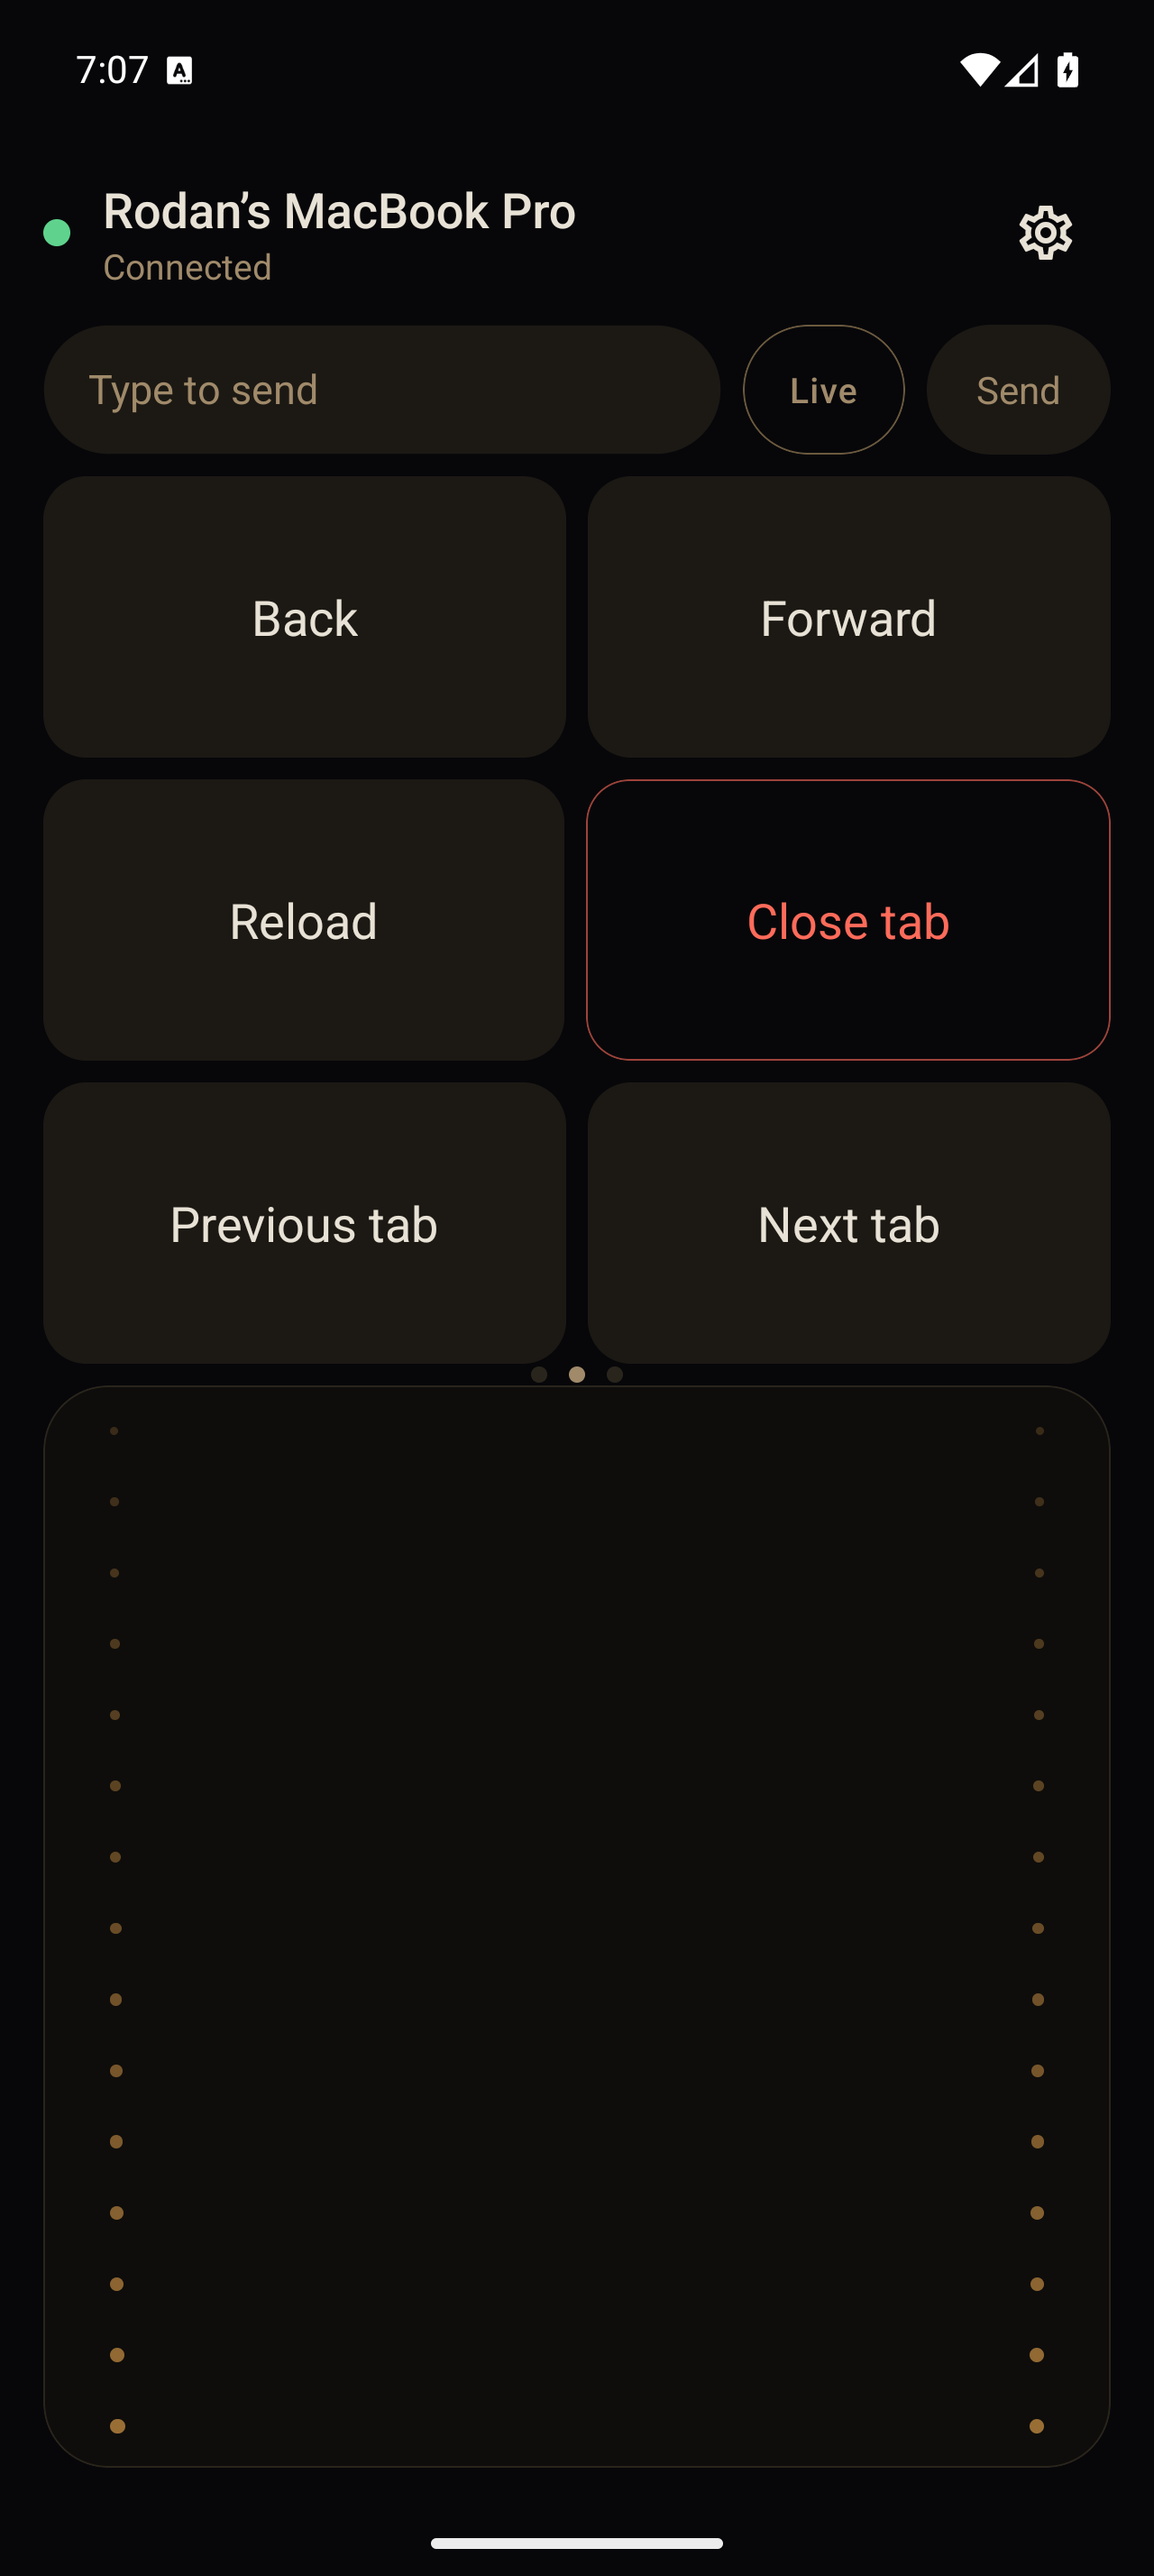
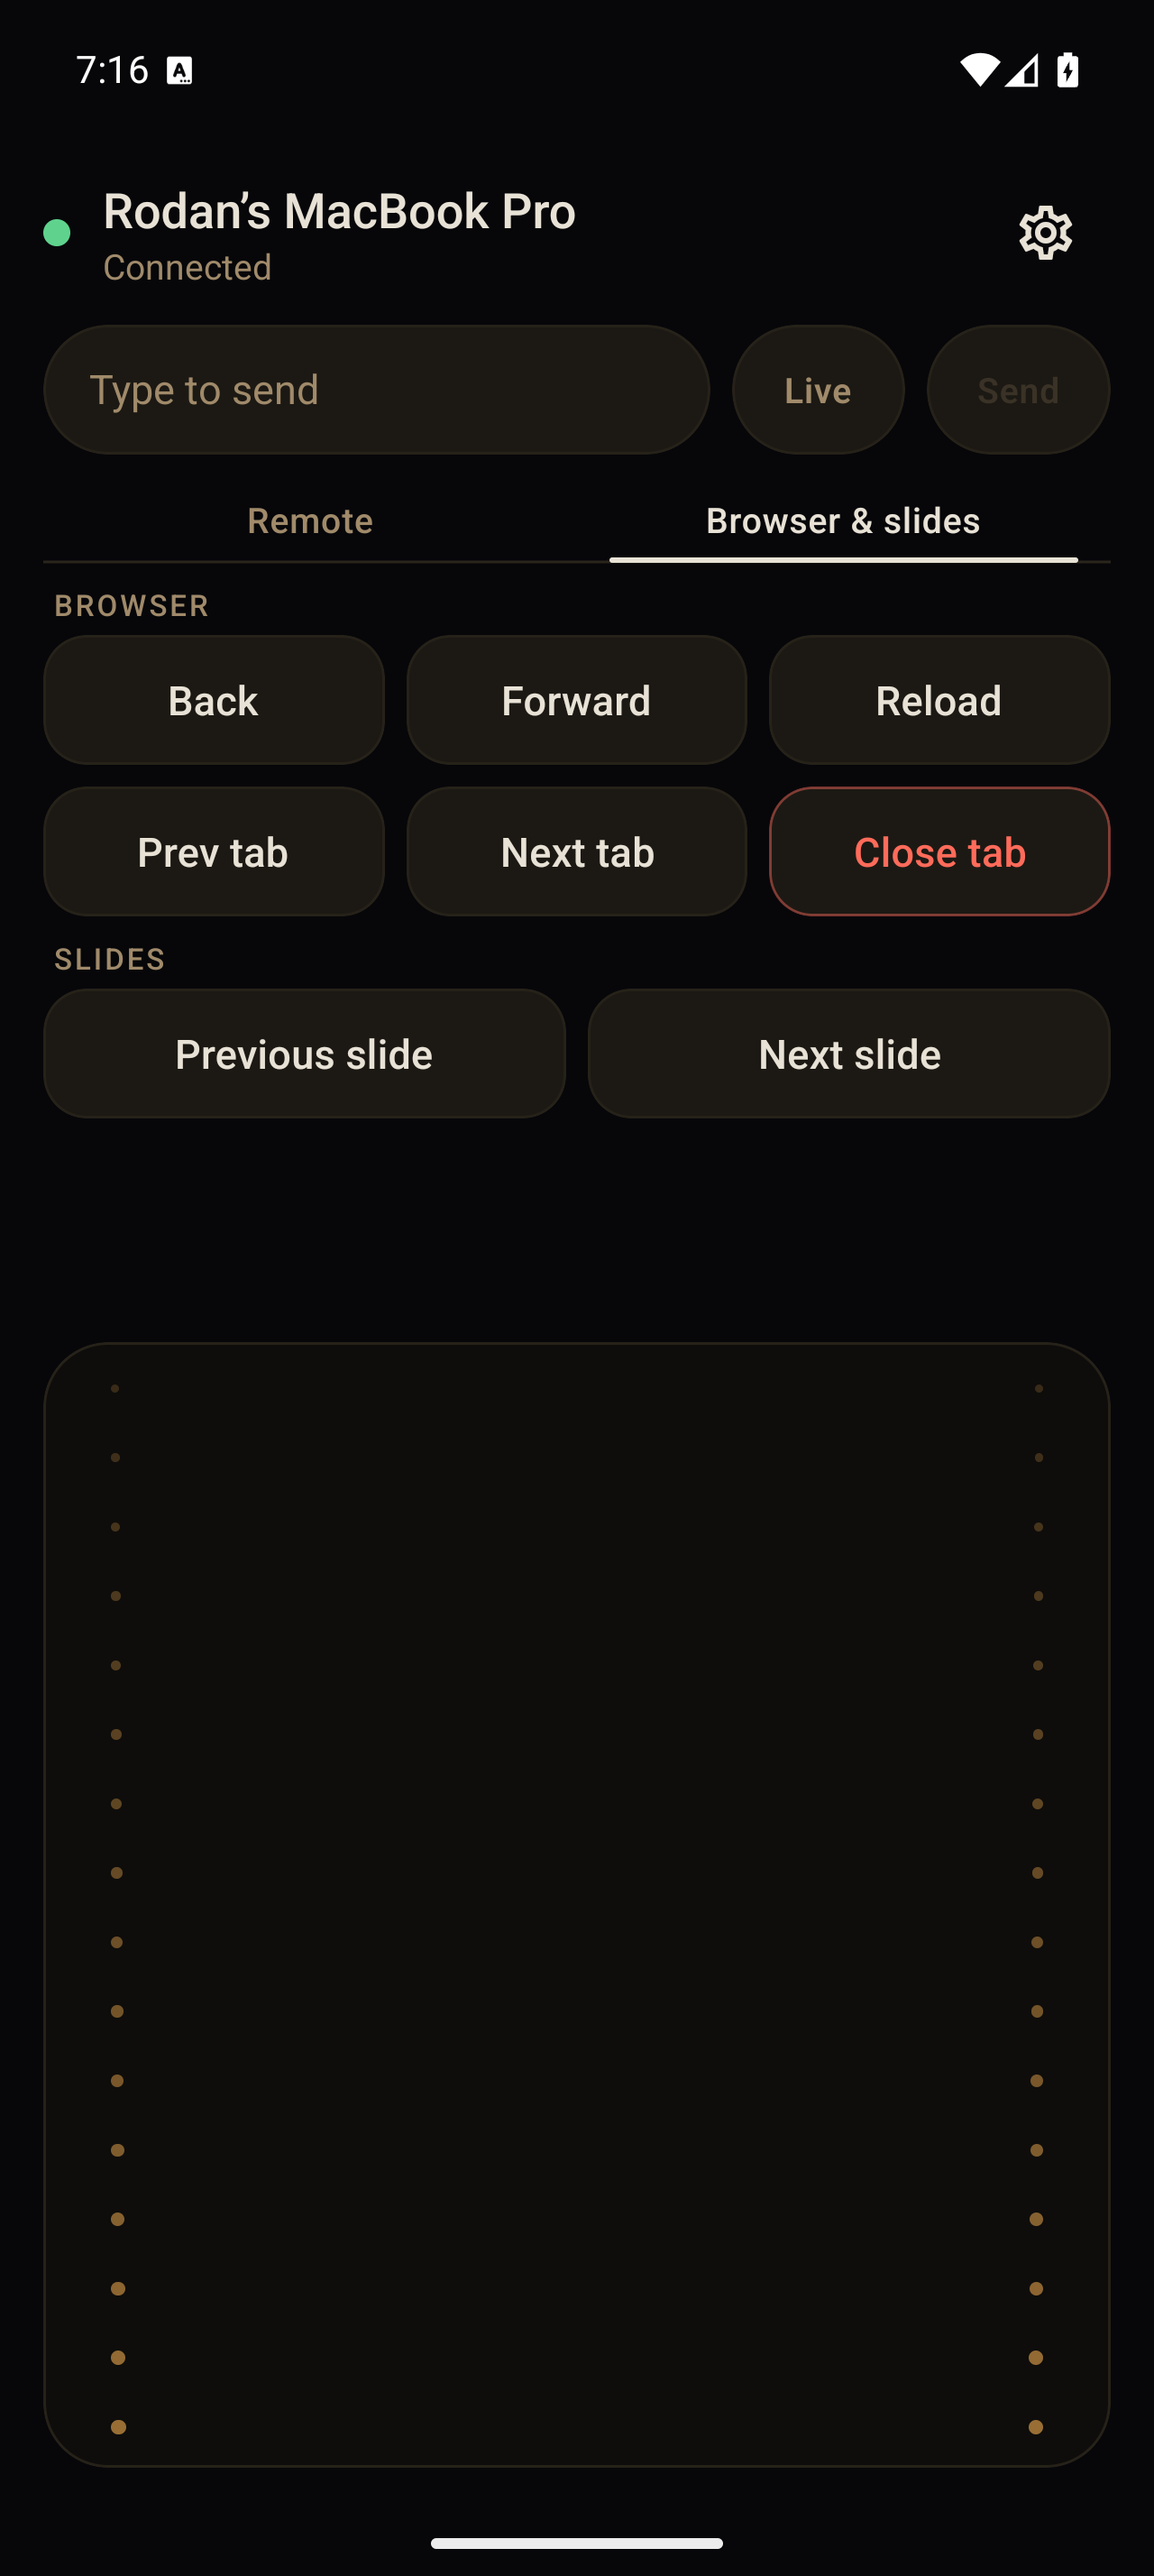
feat(app): underline page tabs (Remote, Browser & slides); track keys beside volume
Claude-Session: https://claude.ai/code/session_01GjmifBaFruAr4AHSmS1LiQ

diff --git a/app/src/ui/Pager.tsx b/app/src/ui/Pager.tsx
@@ -3,7 +3,7 @@ import { Animated, Easing, type LayoutChangeEvent, type NativeScrollEvent, type 
 import { color, space } from '../theme';
 import { tick } from './haptics';
 
-const TAB_H = 28;
+const TAB_H = 32;
 
 /**
  * Swipeable pages with a named tab strip beneath them, so people can see what is on each page
@@ -34,28 +34,11 @@ export function Pager({ pages, labels }: { pages: React.ReactNode[]; labels: str
   const seg = tabsWidth / labels.length;
   return (
     <View onLayout={(e: LayoutChangeEvent) => setWidth(e.nativeEvent.layout.width)}>
-      <ScrollView
-        ref={scroller}
-        horizontal
-        pagingEnabled
-        showsHorizontalScrollIndicator={false}
-        onMomentumScrollEnd={settle}
-        scrollEventThrottle={32}
-        nestedScrollEnabled
-        decelerationRate="fast"
-      >
-        {pages.map((page, i) => (
-          <View key={i} style={{ width, minHeight: height || undefined }}>
-            {/* Measure the content itself (not the box that carries the minimum height). */}
-            <View onLayout={i === 0 ? (e: LayoutChangeEvent) => setHeight(e.nativeEvent.layout.height) : undefined}>{page}</View>
-          </View>
-        ))}
-      </ScrollView>
       <View style={s.tabs} onLayout={(e: LayoutChangeEvent) => setTabsWidth(e.nativeEvent.layout.width)} accessibilityRole="tablist">
         {seg > 0 ? (
           <Animated.View
             pointerEvents="none"
-            style={[s.pill, { width: seg - 6, transform: [{ translateX: Animated.add(Animated.multiply(slide, seg), 3) }] }]}
+            style={[s.line, { width: seg - 24, transform: [{ translateX: Animated.add(Animated.multiply(slide, seg), 12) }] }]}
           />
         ) : null}
         {labels.map((l, i) => (
@@ -73,14 +56,31 @@ export function Pager({ pages, labels }: { pages: React.ReactNode[]; labels: str
           </Pressable>
         ))}
       </View>
+      <ScrollView
+        ref={scroller}
+        horizontal
+        pagingEnabled
+        showsHorizontalScrollIndicator={false}
+        onMomentumScrollEnd={settle}
+        scrollEventThrottle={32}
+        nestedScrollEnabled
+        decelerationRate="fast"
+      >
+        {pages.map((page, i) => (
+          <View key={i} style={{ width, minHeight: height || undefined }}>
+            {/* Measure the content itself (not the box that carries the minimum height). */}
+            <View onLayout={i === 0 ? (e: LayoutChangeEvent) => setHeight(e.nativeEvent.layout.height) : undefined}>{page}</View>
+          </View>
+        ))}
+      </ScrollView>
     </View>
   );
 }
 
 const s = StyleSheet.create({
-  tabs: { flexDirection: 'row', height: TAB_H, marginTop: space.s, alignItems: 'center' },
-  // The sliding highlight behind the active tab: a soft raised pill, not amber (amber is for Play).
-  pill: { position: 'absolute', left: 0, top: 0, height: TAB_H, borderRadius: TAB_H / 2, backgroundColor: color.surface, borderWidth: 1, borderColor: color.rim },
+  // Plain text tabs over a hairline with a sliding underline: deliberately unlike the filled keys.
+  tabs: { flexDirection: 'row', height: TAB_H, marginBottom: space.s, borderBottomWidth: 1, borderBottomColor: color.hairline },
+  line: { position: 'absolute', left: 0, bottom: -1, height: 2, borderRadius: 1, backgroundColor: color.text },
   tab: { flex: 1, height: TAB_H, alignItems: 'center', justifyContent: 'center' },
   label: { fontSize: 13, fontWeight: '500', letterSpacing: 0.3, color: color.textMuted },
   labelActive: { color: color.text },

diff --git a/app/src/ui/MorePage.tsx b/app/src/ui/MorePage.tsx
@@ -7,15 +7,13 @@ import { Key } from './Key';
 const SIZE = 15; // one text size for every key on this page
 
 /**
- * "Browser & more": three titled sections, words only, so nothing is mistaken for the arrow keys.
+ * "Browser & slides": two titled sections, words only, so nothing is mistaken for the arrow keys.
  *  - BROWSER: history, reload and tabs. Close tab is red-tinted but a plain tap.
  *  - SLIDES: Page Up / Page Down move through slides in Keynote, PowerPoint, Google Slides, PDFs.
- *  - TRACKS: the Mac's previous / next track keys (whichever app owns "now playing").
  */
 export function MorePage({ send }: { send: (m: Message) => void }) {
   const browser = (action: 'back' | 'forward' | 'reload' | 'prev_tab' | 'next_tab' | 'close_tab') => () => send({ type: 'browser', action });
   const key = (k: 'page_up' | 'page_down') => () => send({ type: 'key', key: k });
-  const media = (action: 'prev' | 'next') => () => send({ type: 'media', action });
   return (
     <View style={s.page}>
       <Group title="BROWSER">
@@ -36,12 +34,6 @@ export function MorePage({ send }: { send: (m: Message) => void }) {
         <View style={s.row}>
           <Key label="Previous slide" text="Previous slide" textSize={SIZE} onPress={key('page_up')} />
           <Key label="Next slide" text="Next slide" textSize={SIZE} onPress={key('page_down')} />
-        </View>
-      </Group>
-      <Group title="TRACKS">
-        <View style={s.row}>
-          <Key label="Previous track" text="Previous track" textSize={SIZE} onPress={media('prev')} />
-          <Key label="Next track" text="Next track" textSize={SIZE} onPress={media('next')} />
         </View>
       </Group>
     </View>

diff --git a/app/src/ui/MainPage.tsx b/app/src/ui/MainPage.tsx
@@ -10,7 +10,7 @@ import { Key } from './Key';
  * Mute and Esc to the right.
  */
 export function MainPage({ send, active }: { send: (m: Message) => void; active: boolean }) {
-  const media = (action: 'play_pause' | 'mute' | 'vol_up' | 'vol_down') => () => send({ type: 'media', action });
+  const media = (action: 'play_pause' | 'mute' | 'vol_up' | 'vol_down' | 'prev' | 'next') => () => send({ type: 'media', action });
   const player = (action: 'seek_back' | 'seek_fwd' | 'fullscreen' | 'captions') => () => send({ type: 'player', action });
   return (
     <View style={s.page}>
@@ -20,8 +20,10 @@ export function MainPage({ send, active }: { send: (m: Message) => void; active:
         <Key label="Forward 10 seconds" icon="fast-forward-10" onPress={player('seek_fwd')} />
       </View>
       <View style={s.row}>
-        <Key label="Volume down" icon="volume-minus" repeat onPress={media('vol_down')} />
-        <Key label="Volume up" icon="volume-plus" repeat onPress={media('vol_up')} />
+        <Key label="Previous track" icon="skip-previous" onPress={media('prev')} />
+        <Key label="Volume down" icon="volume-minus" repeat flex={1.4} onPress={media('vol_down')} />
+        <Key label="Volume up" icon="volume-plus" repeat flex={1.4} onPress={media('vol_up')} />
+        <Key label="Next track" icon="skip-next" onPress={media('next')} />
       </View>
       <View style={s.padRow}>
         <View style={s.side}>

diff --git a/app/App.tsx b/app/App.tsx
@@ -65,7 +65,7 @@ function Remote({ boot, onForget }: { boot: Boot; onForget: () => void }) {
             {!typing ? (
               <View style={[s.controls, !usable && s.dim]} pointerEvents={usable ? 'auto' : 'none'}>
                 <Pager
-                  labels={['Main', 'Browser & more']}
+                  labels={['Remote', 'Browser & slides']}
                   pages={[<MainPage key="main" send={send} active={usable} />, <MorePage key="more" send={send} />]}
                 />
               </View>

diff --git a/docs/design-brief.md b/docs/design-brief.md
@@ -51,7 +51,7 @@ Status-dot glow, idle animation of the lights, amber D-pad glyphs, always-amber 
 Three swipeable pages (dots above the trackpad show which one):
 - **Main:** the media deck and the D-pad, icons only. No words on the main keys (words made it noisy).
 - **Browser:** six equal, big, text-only keys (Back, Forward, Reload, Close tab, Previous tab, Next tab), one text size (18 sp) so none looks smaller. Close tab is outlined in red but is a plain tap like the others (a hold gesture was confusing and read as "not working").
-- **More:** SLIDES (Previous / Next slide = Page Up / Page Down) and TRACKS (Previous / Next track); equal rows, same text size, no gaps. Left/Right click keys were removed as redundant (tap and two-finger tap already do it).
+- **Browser & slides (page 2):** sections BROWSER (Back, Forward, Reload, Prev tab, Next tab, Close tab) and SLIDES (Previous / Next slide); words only, one text size. Previous/Next track live on the Remote page beside volume. Left/Right click keys were removed as redundant. Pages are named by plain text tabs with a sliding underline above the keys (deliberately not key-shaped).
 - Settings lists the trackpad gestures.
 - Compact layout keeps the trackpad large: 48 dp keys, 52 dp header, page dots sit in the gap above the trackpad and cost no height.
 - Rule from the owner for adding anything: only simple, reliable actions. Deliberately NOT added: three-finger swipe shortcuts (OnePlus system gestures, accidental triggers), Mission Control (needs a new protocol command and depends on a macOS shortcut that may be off; revisit after a 30 s on-device check), a mouse Hold toggle (can desync), slide First/Last (inconsistent across apps), a Stop key (not available in enigo).
